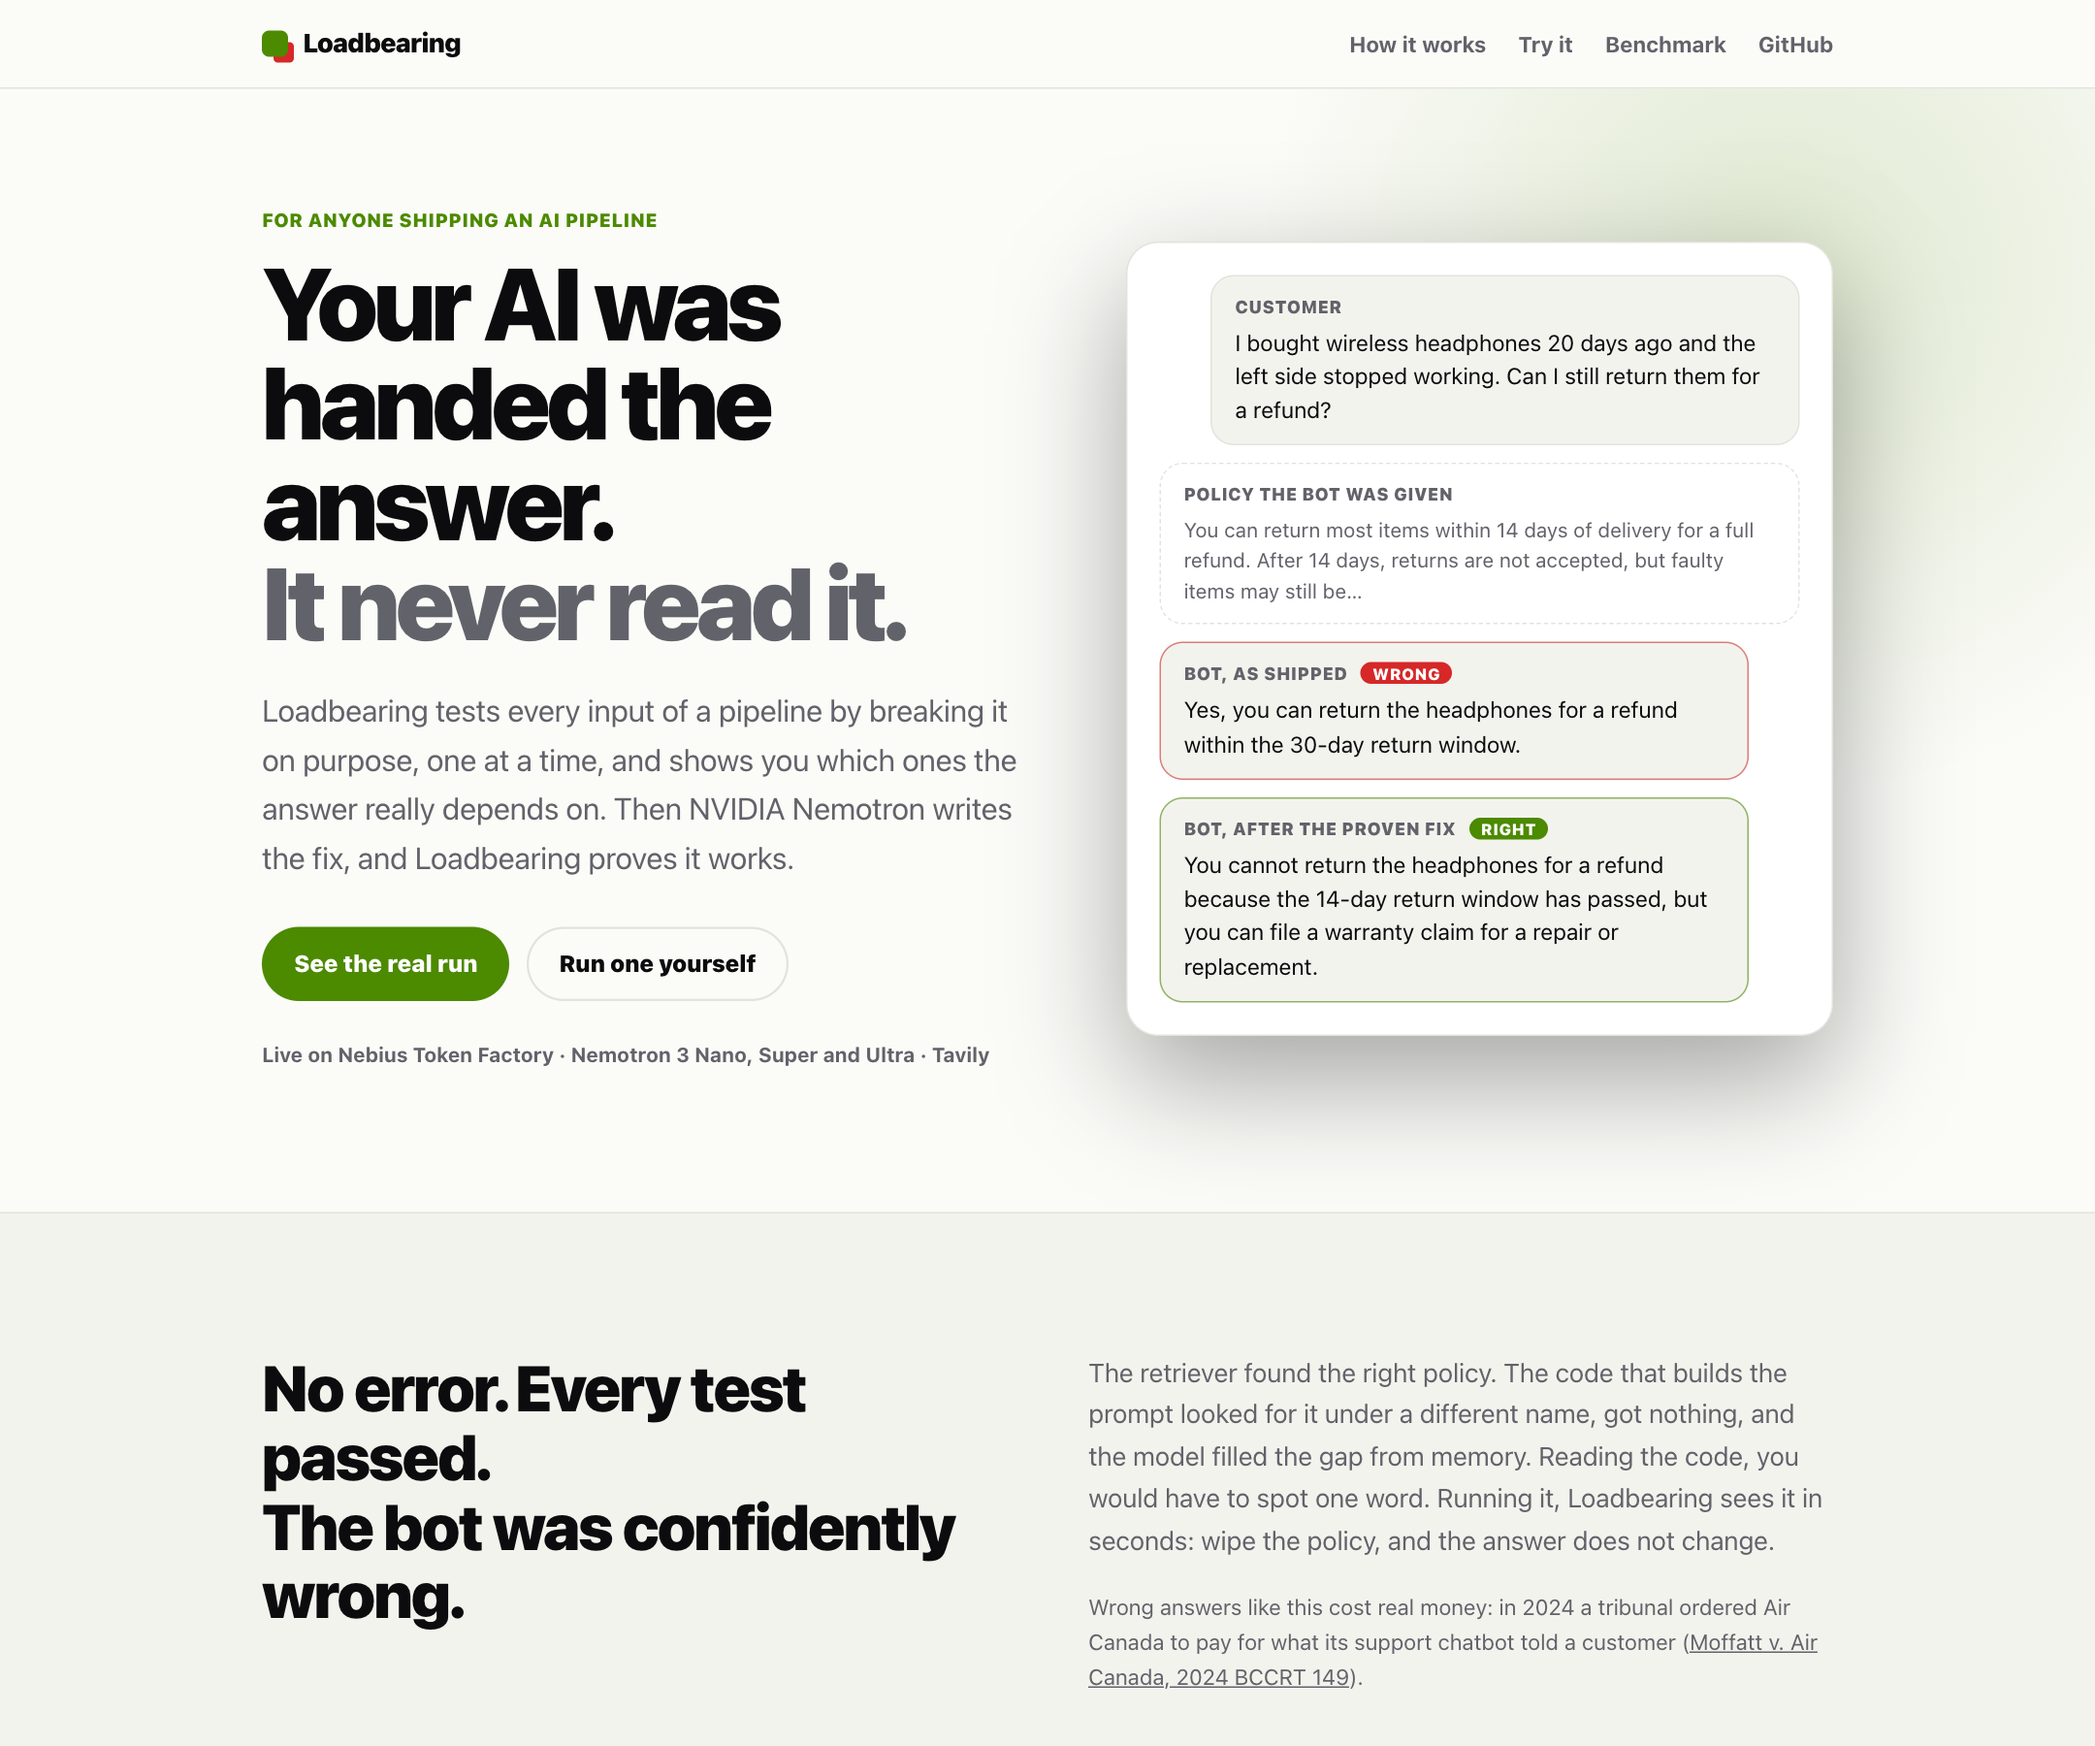
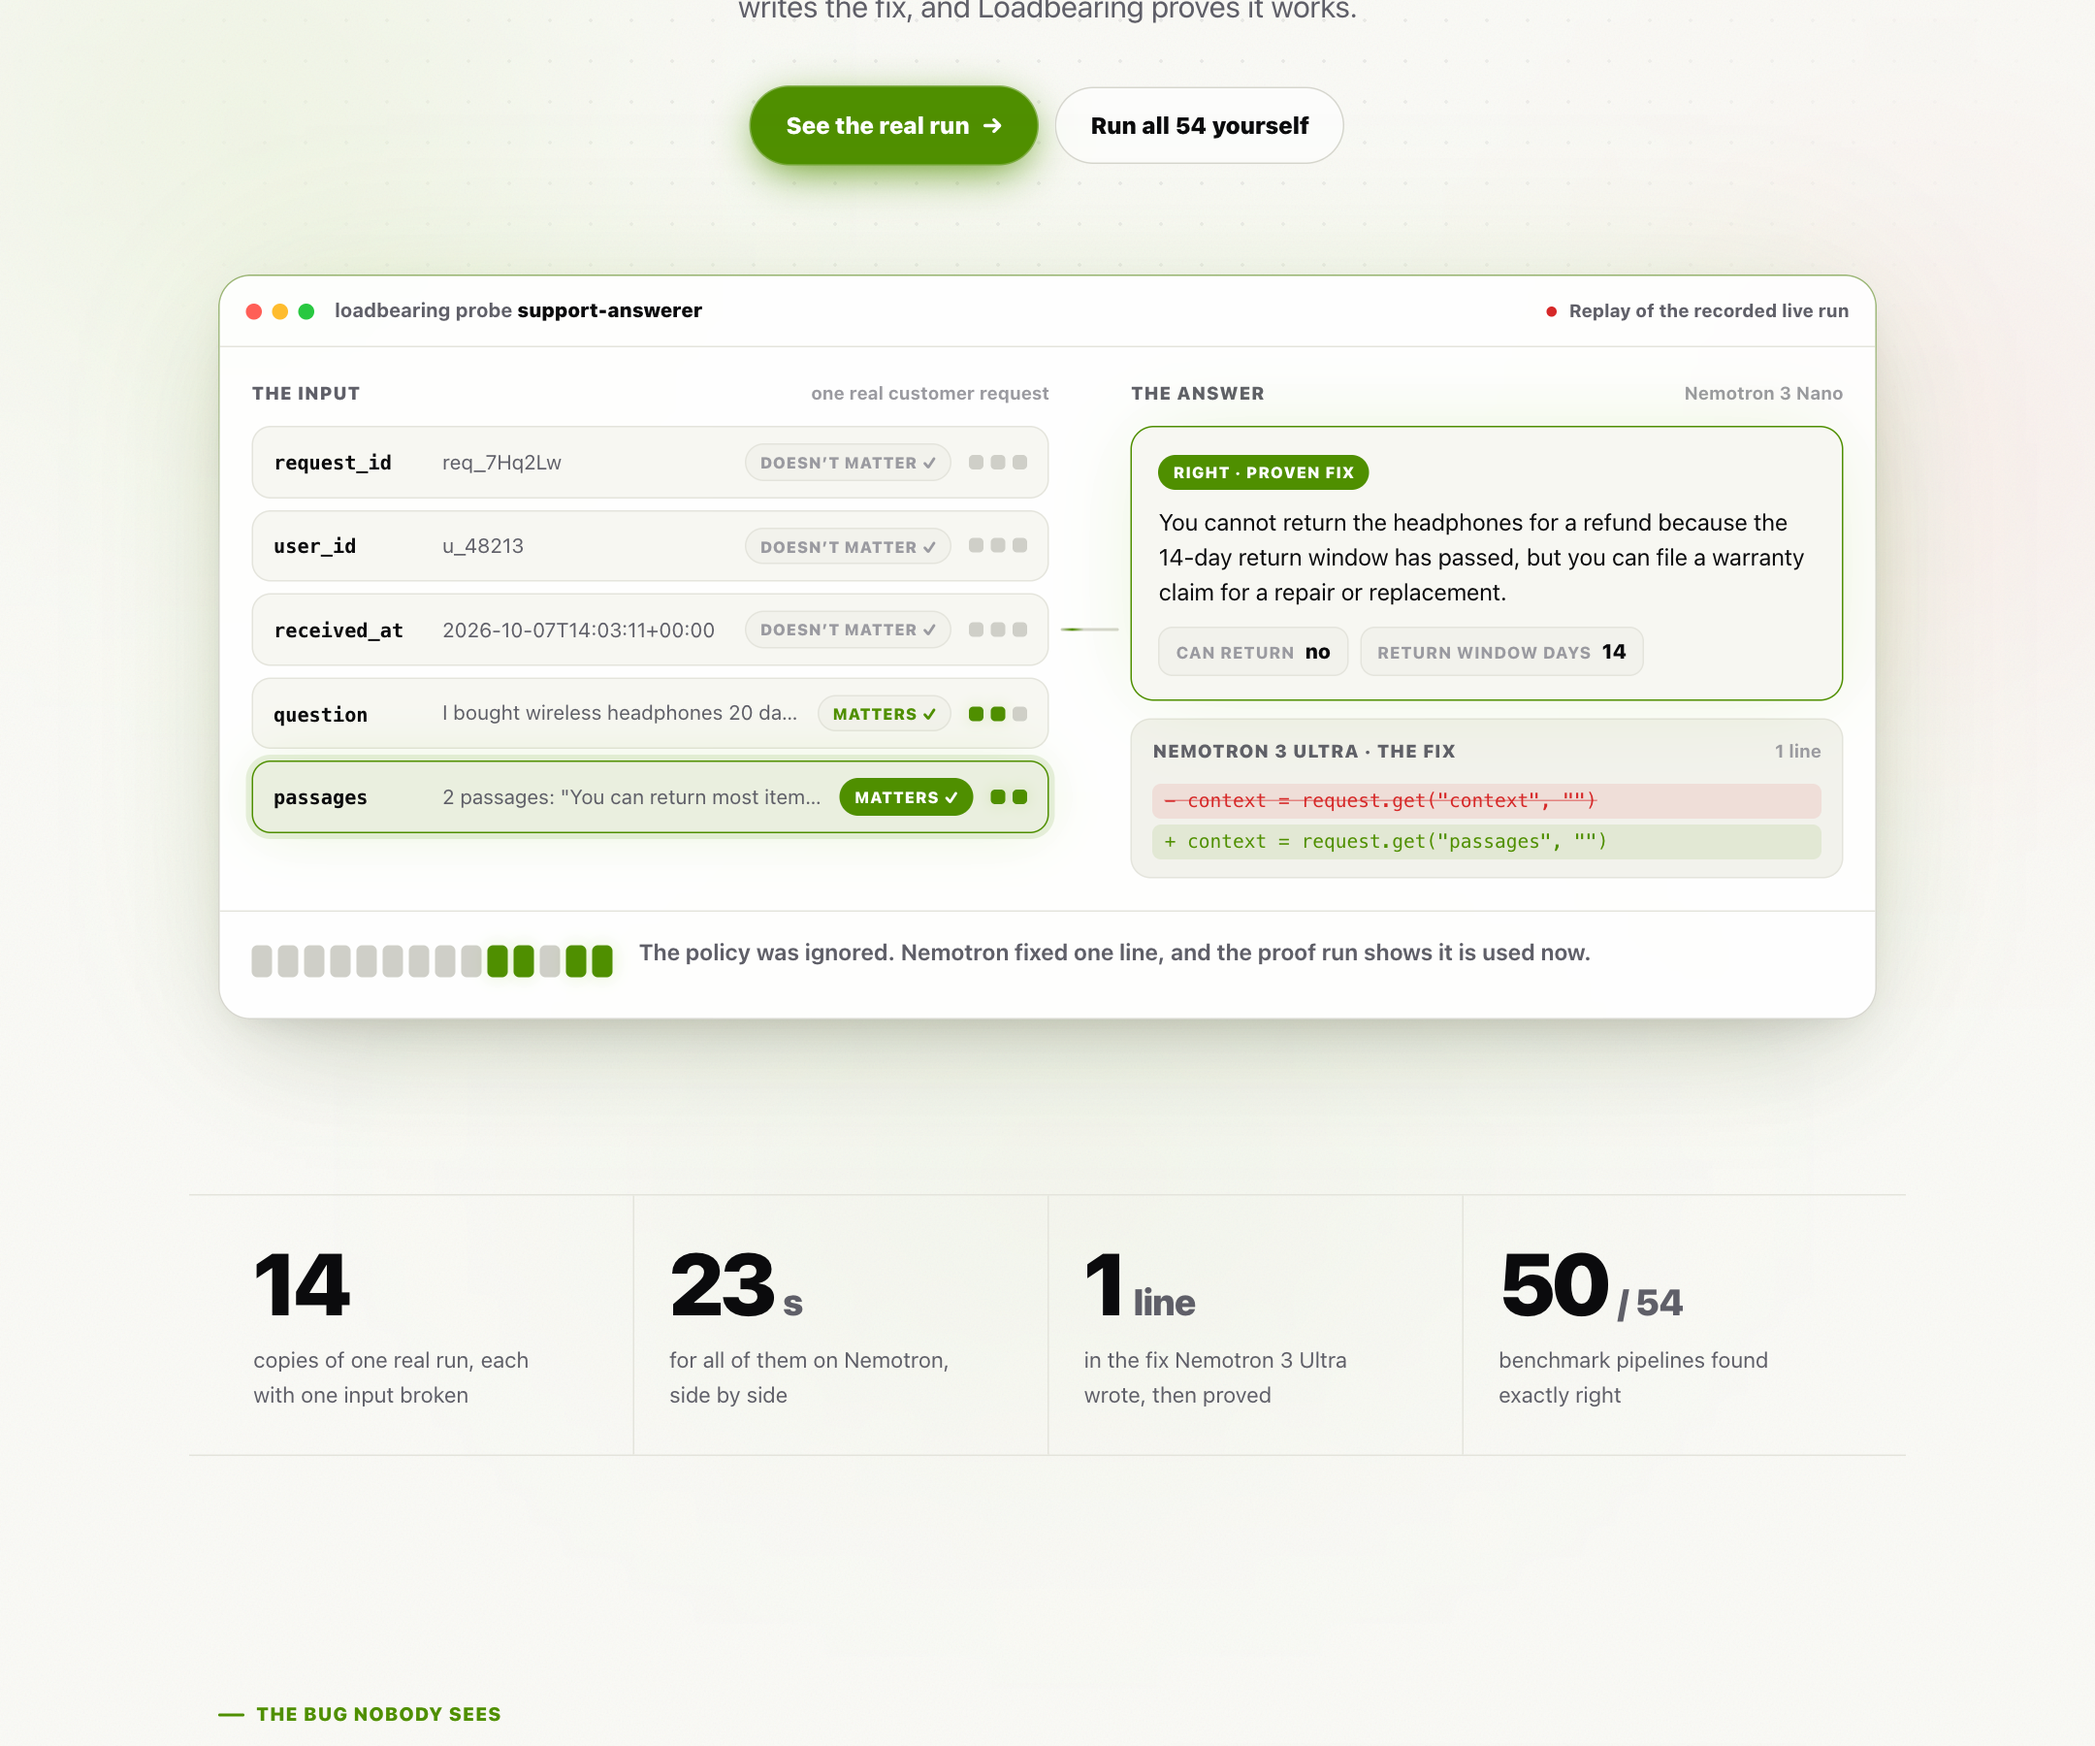
README shows the replay front page; log it

diff --git a/PROGRESS.md b/PROGRESS.md
@@ -97,6 +97,10 @@ Problem statement: [SPEC.md](SPEC.md). Setup, target format, layout: [README.md]
 Newest first.
 
 ### 2026-10-17 (b)
+- **Front page v2 live** (Aeshvarya, `099d8b2`): the hero is now a replay of the recorded support answerer run, read from its JSON. Each of the 14 copies breaks one input and the answer moves or not; `passages` is caught as ignored while the bot says 30 days; Ultra's one-line diff appears; the proof run re-fills every copy and the answer turns to the 14-day policy. Also: a scroll-led "How it works" whose fork tree moves from snapshot to the after-fix tree, animated explainers for the two bugs, a scoreboard ring for "Run all 54", and a terminal that runs the toy probe on the server when it comes into view. Nothing is fetched (24 KB gzipped); reduced motion shows the final state.
+- Checked on the live site in Chrome: no page errors, "Run all" 50 of 54 in 14.4 s (the same four misses), the terminal's live run found both defects, a paid run is still refused 403. Light mode and phone checked. 203 tests pass (new: the replay carries every copy of the recorded run and its fix).
+
+### 2026-10-17 (b)
 - **Front page reviewed** (Varunika, on `3eb67d4`): every number on it checked against `bench/results.json` and the recorded run; the toy and benchmark cards say truly what is planted. **Hand-off 25 to Aeshvarya, `varunika/h25-front-page-facts`** (his files, for review): the model's bar showed its first run only, 49 of 54, but it scored 49, 51 and 49 over three runs, and run 2 beat our 50. The README already says "49 to 51", so the bar now spans every run (`cases_right_repeats` stored in `results.json`, re-rendered from the saved calls with `--from-json`, nothing re-run; a test counts it from the calls and truth files). Also: the hero cut the policy at 150 characters, before the warranty clause the fixed answer cites. 209 tests on the branch, CI green. If merged, the two front-page screenshots show the old cut and want re-taking.
 - **Hand-off 24 merged** (`45722e9`) under rule 4, about 54 hours without review: bad input is refused or warned about, never misread. 208 tests on `main`, CI green.
 - **One wording point on the front page, his call:** "No error. Every test passed." The support answerer has no tests, so a judge who opens `examples/support_answerer/` finds none. "No error. Nothing crashed." says the same thing and is true.

diff --git a/README.md b/README.md
@@ -283,12 +283,12 @@ with the changed keys marked. It fetches nothing, so a saved copy always opens.
 
 ## The demo server
 
-**Live at [loadbearing-demo.vercel.app](https://loadbearing-demo.vercel.app).** The front page explains the idea in plain words, then lets you run any free target yourself: one card at a time, or all 54 benchmark cases at once, each checked against the bug planted in it. The support answerer shows its recorded live run, since running it would spend credits.
+**Live at [loadbearing-demo.vercel.app](https://loadbearing-demo.vercel.app).** The front page replays the recorded support answerer run copy by copy, from the ignored policy to the proven fix, then lets you run any free target yourself: one card at a time, or all 54 benchmark cases at once, each checked against the bug planted in it. The support answerer shows its recorded live run, since running it would spend credits.
 
 <p align="center">
 <picture>
   <source media="(prefers-color-scheme: light)" srcset="docs/img/demo-index-light.png">
-  <img alt="The demo front page: the support bot's wrong answer next to its answer after the proven fix, from the recorded live run" src="docs/img/demo-index-dark.png" width="880">
+  <img alt="The demo front page replaying the recorded live run: every input broken in turn, the ignored policy caught, Nemotron 3 Ultra's one-line fix, and the proven answer" src="docs/img/demo-index-dark.png" width="880">
 </picture>
 </p>
 
